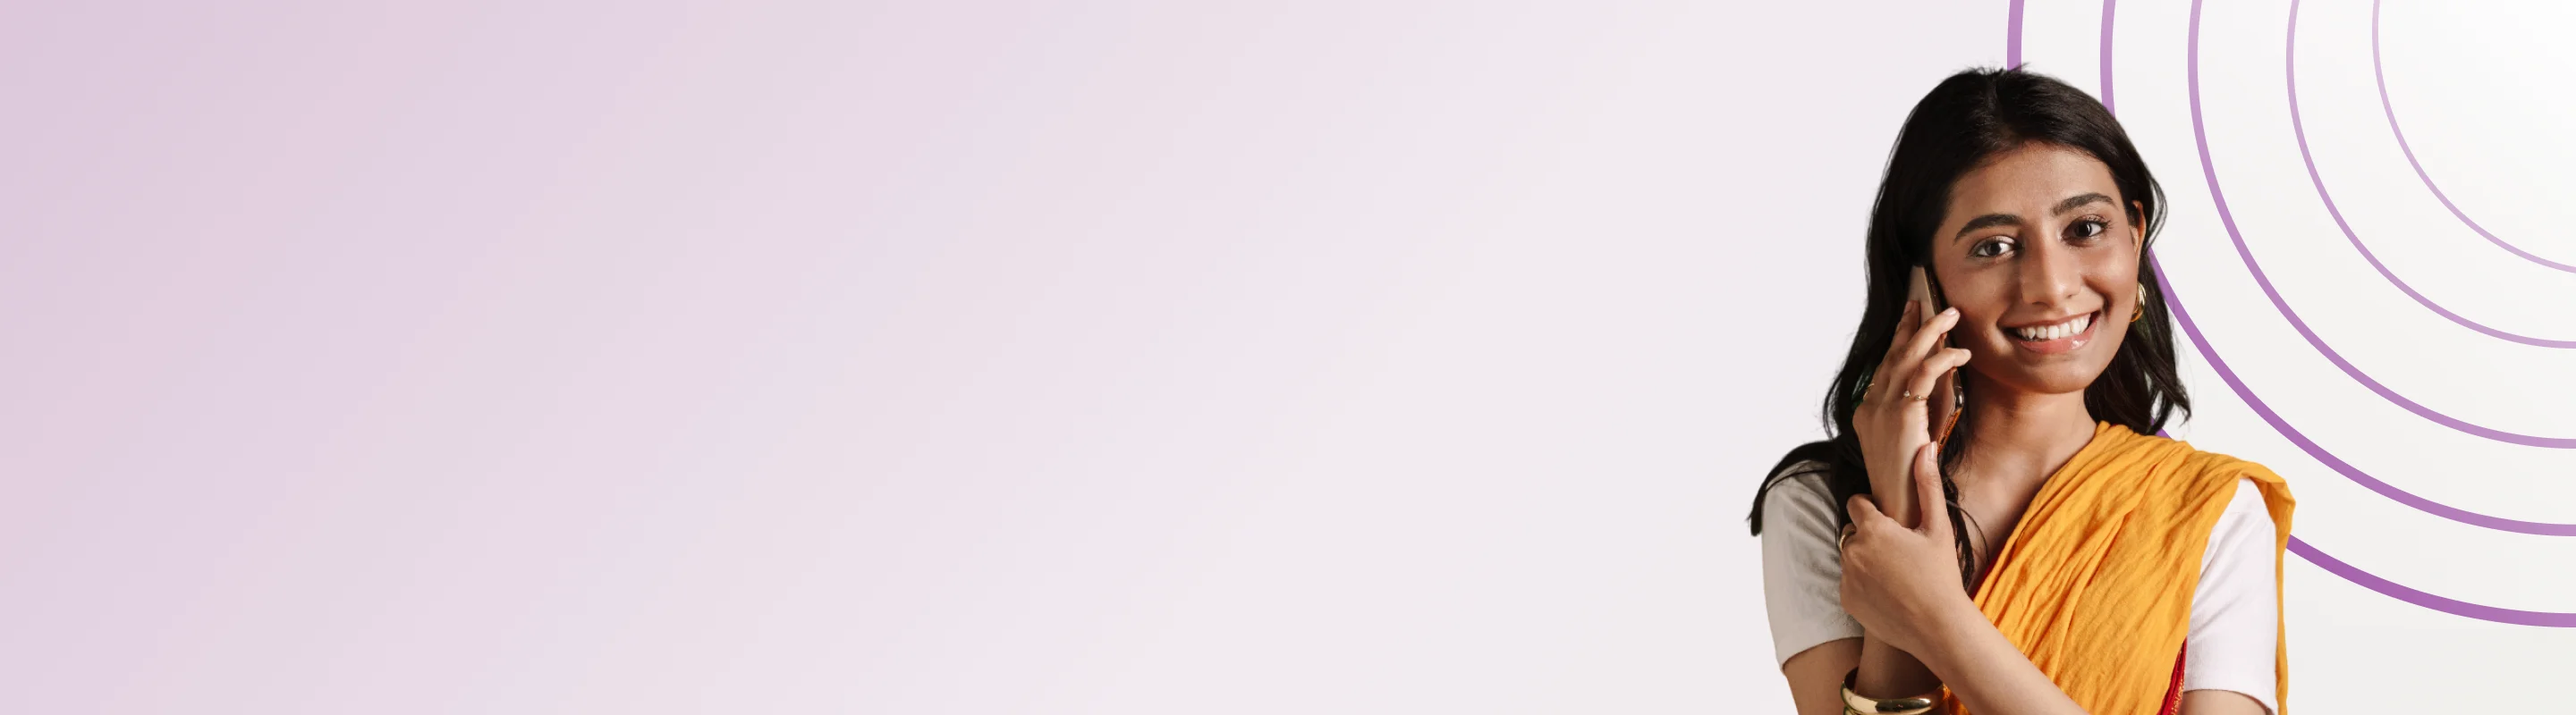
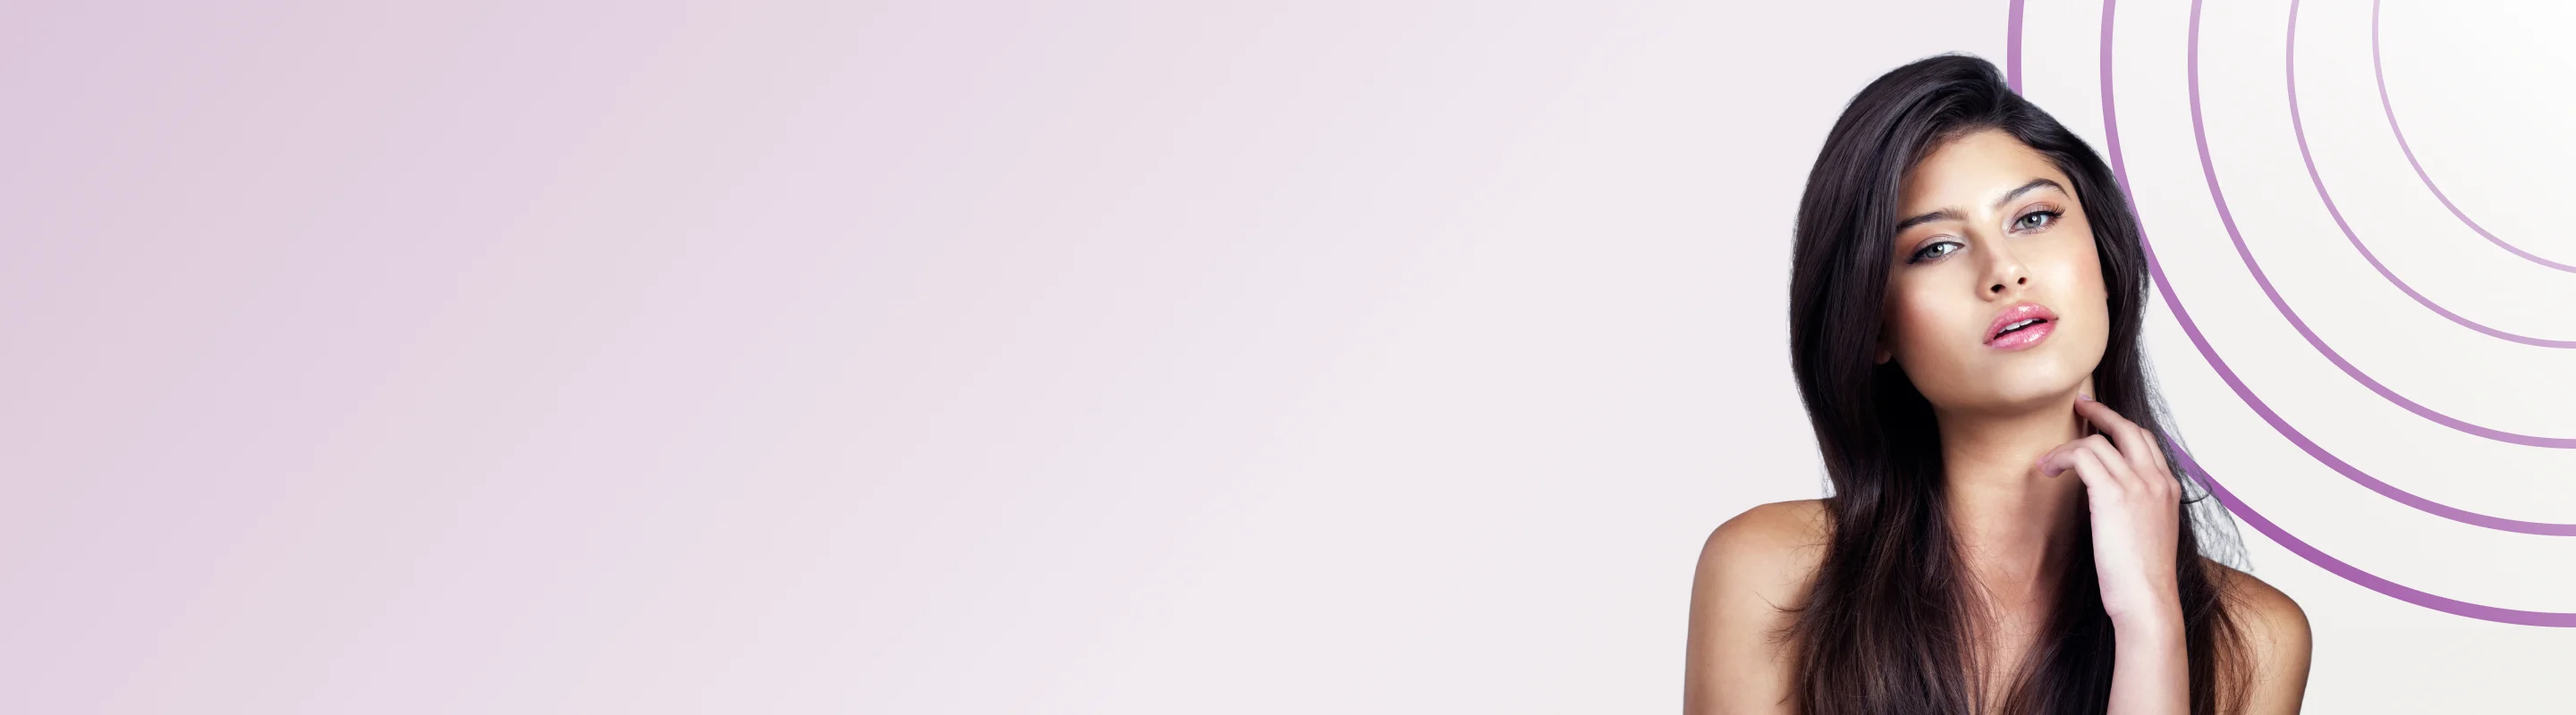
change the image in contact us and remove book an appointment in team section

Changed region(s): [[0.6562, 0.0625, 0.9062, 1.0]]

diff --git a/src/components/team.jsx b/src/components/team.jsx
@@ -79,7 +79,7 @@ const Team = ()=>{
                 >     
                 {
                     data.map((e,idx)=>(<SwiperSlide className="" key={`Meet_Our_Team_${e.name}_${idx}`}>
-                        <div className="grid grid-cols-1 lg:grid-cols-2 gap-3 md:gap-5 container-team p-4  xl:min-h-[450px]">
+                        <div className="grid grid-cols-1 lg:grid-cols-2 gap-3 md:gap-5 container-team p-4  xl:min-h-[350px]">
                             <div className="team-container-img h-[300px] md:h-[250px] lg:h-[100%]  ">
                                 <img style={{objectFit:"cover"}} src={e.img} alt={`Team_${idx}`} />
                                 
@@ -107,12 +107,12 @@ const Team = ()=>{
                                         </ul>
                                         
                                     </div> */}
-                                    <div className="w-full">
+                                    {/* <div className="w-full">
                                         <Link to="/book-an-appointment">
                                             <button className="w-full" >Book an Appointment </button>
                                         </Link>
                                             
-                                    </div>
+                                    </div> */}
                                 </div>
                                 
                         </div>
